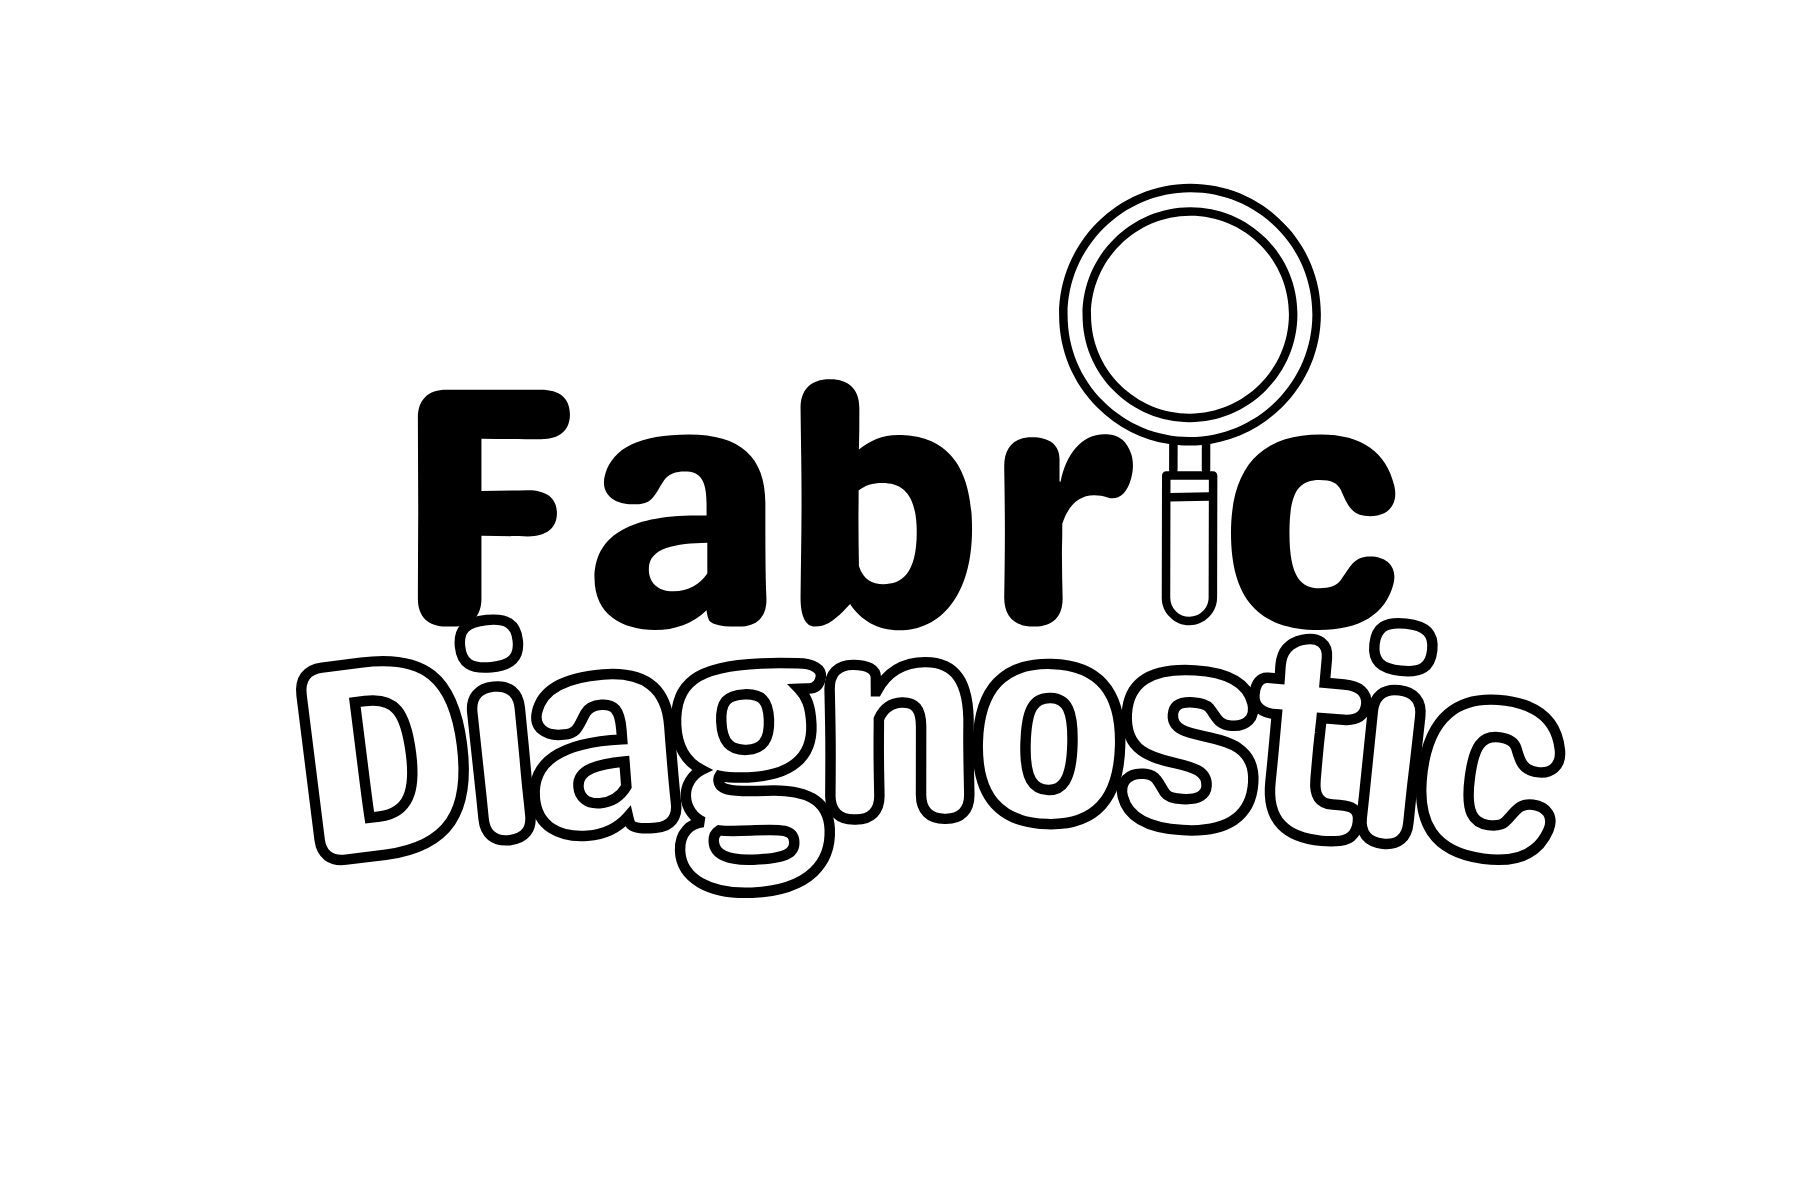
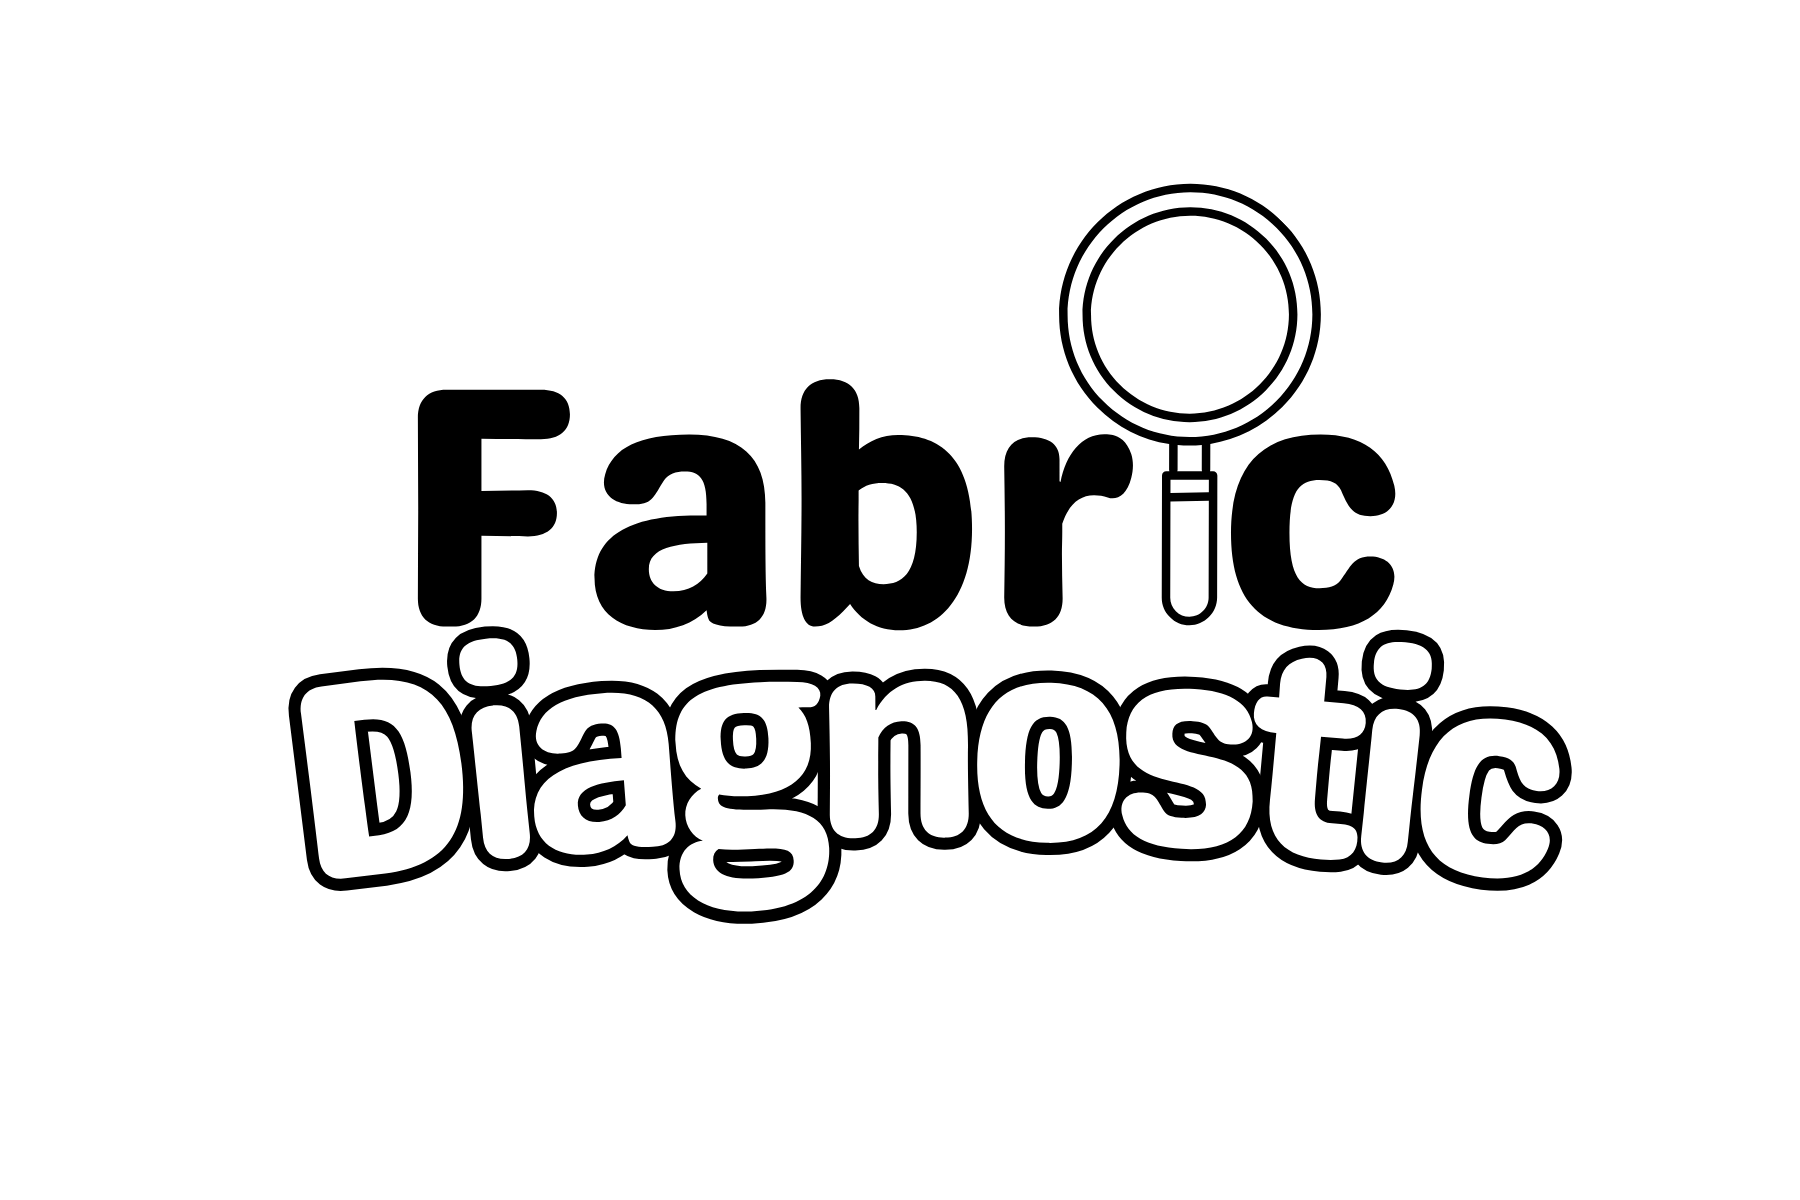
title png update test

Changed region(s): [[0.1556, 0.4933, 0.8711, 0.7708]]

diff --git a/src/script.js b/src/script.js
@@ -4,6 +4,15 @@ let questionSubmitted = {};
 
 const totalQuestions = 14; //dont forget to update when making more questions
 
+const questionsWithSubmit = [7, 13, 14]; // Add more if needed
+
+const correctAnswers = {
+    7: 'option-7A',
+    13: 'option-13C',
+    14: 'option-14B',
+    // add more correct-answer questions here
+};
+
 // Personality results - add in images later
 const personalityResults = {
     'result1': {
@@ -57,15 +66,6 @@ const categories = {
         description: 'sustainable practices for your mental health',
         image: 'assets/face.png',
     },
-};
-
-const questionsWithSubmit = [7, 13, 14]; // Add more if needed
-
-const correctAnswers = {
-    7: 'option-7A',
-    13: 'option-13C',
-    14: 'option-14B',
-    // add more correct-answer questions here
 };
 
 function startQuiz() {

diff --git a/index.html b/index.html
@@ -14,7 +14,7 @@
     <!-- Introduction Screen -->
         <div id="intro" class="intro-screen active">
             <div class="start-image">
-                <img src="assets/Fabric Diagnostic.png" alt="Quiz Image">
+                <img src="assets/title.png" alt="Quiz Image">
             </div>
             <h1>A Fabric Diagnostic Quiz</h1>
                 <p class="subtitle">
